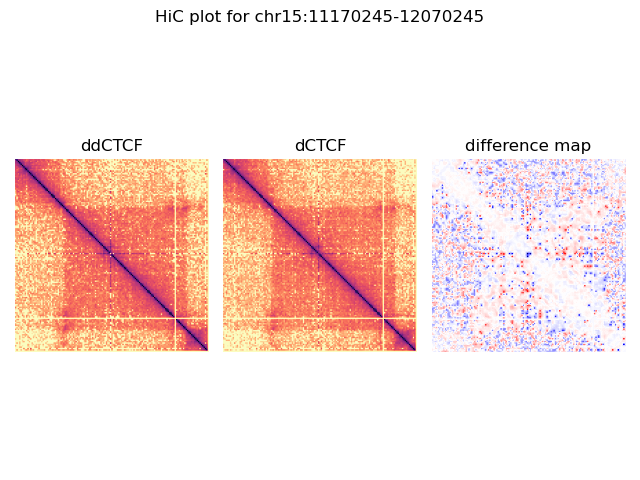
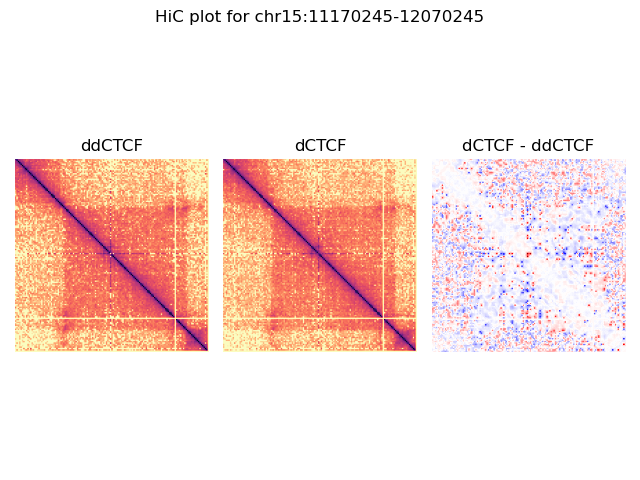
I think I completed assignment; not too sure about difference matrices, though

Changed region(s): [[0.6562, 0.2812, 1.0, 0.75]]

diff --git a/week6-homework/load_data.py b/week6-homework/load_data.py
@@ -5,7 +5,7 @@ import sys
 import numpy as np 
 import matplotlib.pyplot as plt
 import matplotlib.colors as colors
-from scipy import ndimage
+import matplotlib.transforms as mtransforms
 
 # analysis/hic_results/matrix/ddCTCF/iced/6400/ddCTCF_ontarget_6400_iced.matrix
 # analysis/hic_results/matrix/ddCTCF/iced/6400/dCTCF_ontarget_6400_iced.matrix
@@ -26,7 +26,7 @@ def get_bins(bin_fname, chrom, start, end):
 def process_data(fname, start, end):
     data = np.loadtxt(fname, dtype=np.dtype([
         ('F1', int), ('F2', int), ('score', float)]))
-    data = data[np.where((data['F1'] >= start) & (data['F2'] <= end))]
+    data = data[np.where((data['F1'] >= start) & (data['F2'] < end))]
     data['score'] = np.log(data['score']) 
     data['score'] = data['score'] - np.min(data['score'])
 
@@ -73,7 +73,6 @@ if __name__ == "__main__":
     start, end = get_bins(bin_fname, b'chr15', 11170245, 12070245)
 
     dim = end - start
-
     dd_data = process_data(dd_matrix, start, end)
     d_data = process_data(d_matrix, start, end)
 
@@ -86,7 +85,7 @@ if __name__ == "__main__":
 
     axs[0].imshow(-1*dd_mat, cmap='magma', vmin=-vmax, vmax=0)
     axs[1].imshow(-1*d_mat, cmap='magma', vmin=-vmax, vmax=0)
-    axs[2].imshow((remove_dd_bg(smooth_matrix(dd_mat))-remove_dd_bg(smooth_matrix(d_mat))), cmap='seismic', norm=colors.CenteredNorm())
+    axs[2].imshow((remove_dd_bg(smooth_matrix(d_mat))-remove_dd_bg(smooth_matrix(dd_mat))), cmap='seismic', norm=colors.CenteredNorm())
     
     axs[0].axis('off')
     axs[1].axis('off')
@@ -94,84 +93,80 @@ if __name__ == "__main__":
 
     axs[0].set_title('ddCTCF')
     axs[1].set_title('dCTCF')
-    axs[2].set_title('difference map')
+    axs[2].set_title('dCTCF - ddCTCF')
 
     plt.suptitle('HiC plot for chr15:11170245-12070245')
     plt.tight_layout()
     plt.savefig('hiC.png')
-    plt.show()
 
-    ### FULL DATA SETS ###
+    ### FULL DATA SETS ### Still looking at chr15:11170245-12070245
     dd_full = 'matrix/ddCTCF_full.6400.matrix'
     d_full = 'matrix/dCTCF_full.6400.matrix'
 
-    start, end = get_bins('matrix/6400_bins.bed', b'chr15', 10400000, 13400000)
-    # start = 54878
-    # end = 54951
+    start, end = get_bins('matrix/6400_bins.bed', b'chr15', 11170245, 12070245)
     dd_all = process_data(dd_full, start, end) 
     d_all = process_data(d_full, start, end) 
-
+    
     dim = end - start
-
-    dd_mat = populate_matrix(dd_all, dim)
+    
     d_mat = populate_matrix(d_all, dim)
-
+    dd_mat = populate_matrix(dd_all, dim)
+    
     fig, axs = plt.subplots(1,3)
 
     vmax = np.max([np.max(dd_mat), np.max(d_mat)])
 
     axs[0].imshow(-1*dd_mat, cmap='magma', vmin=-vmax, vmax=0)
     axs[1].imshow(-1*d_mat, cmap='magma', vmin=-vmax, vmax=0)
-    axs[2].imshow((remove_dd_bg(smooth_matrix(dd_mat))-remove_dd_bg(smooth_matrix(d_mat))), cmap='seismic', norm=colors.CenteredNorm())
+    axs[2].imshow((remove_dd_bg(smooth_matrix(d_mat))-remove_dd_bg(smooth_matrix(dd_mat))), cmap='seismic', norm=colors.CenteredNorm())
     axs[0].set_title('ddCTCF')
     axs[1].set_title('dCTCF')
-    axs[2].set_title('difference map')
+    axs[2].set_title('dCTCF - ddCTCF')
 
     axs[0].axis('off')
     axs[1].axis('off')
     axs[2].axis('off')
 
-    plt.suptitle('HiC plot for chr15:10400000-13400000')
+    plt.suptitle('HiC plot for full 6400 data set, chr15:11170245-12070245')
     plt.tight_layout()
     plt.savefig('hiC_full.png')
-    plt.show()
 
-    # Now insulation scores
-    dd_insul = []
+    ### INSULATION SCORES ###
+    # Now insulation scores for 10400000-13400000
+    d_full = 'matrix/dCTCF_full.40000.matrix'
+
+    # start, end = get_bins('matrix/40000_bins.bed', b'chr15', 10400000, 13400000)
+    # print(start,end) # Note, the end I find is 54954 which is not what the HW listed (54951)
+    start = 54878
+    end = 54951
+    d_all = process_data(d_full, start, end) 
+
+    dim = end - start
+
+    d_mat = populate_matrix(d_all, dim)
     d_insul = []
-    for i in range(dd_mat.shape[0]-10):
-        dd_insul.append(np.mean(dd_mat[(i - 5):(i+5), (i-5):(i + 5)]))
-    
-    for i in range(d_mat.shape[0]-10):
-        d_insul.append(np.mean(d_mat[(i - 5):(i+5), (i-5):(i + 5)]))
 
-    assert(np.sum(np.array(dd_insul) != np.array(d_insul)) > 0)
-    print(d_insul)
-    fig, ax = plt.subplots(2, 2, gridspec_kw={'height_ratios': [3, 1]}, figsize=(10,6.25))
-    ax[0,0].axis('off')
-    rot = ndimage.rotate(d_mat, 45)
-    ax[0,0].imshow(-1*rot[:int(len(rot)/2)], cmap='magma', vmin=-vmax, vmax=0)
-    ax[1,0].plot(np.arange(len(d_insul)), d_insul)
+    for i in range(d_mat.shape[0]):
+        d_insul.append(np.mean(d_mat[(i - 5):i, i:(i + 5)]))
+
+    fig, ax = plt.subplots(2, 1, gridspec_kw={'height_ratios': [3, 1]}, figsize=(5,6.25))
+    ax[0].axis('off')
+    im = ax[0].imshow(-1*d_mat, cmap='magma', vmin=-np.max(d_mat), vmax=0)
+
+    # Rotate so that diagonal is on the x axis
+    trans_data = mtransforms.Affine2D().rotate_deg(-45).translate(0,19) + ax[0].transData
+    im.set_transform(trans_data)
+    ax[0].set_xlim(-1, 103)
+    ax[0].set_ylim(19, 75)
+
+    ax[1].plot(np.arange(len(d_insul)), d_insul)
     plt.margins(x=0)
-    ax[1,0].set_xticks([0, len(d_insul)-1])
-    ax[1,0].set_xticklabels([10400000, 13400000])
+    ax[1].set_xticks([0, len(d_insul)-1])
+    ax[1].set_xticklabels([10400000, 13400000])
 
-    ax[0,1].axis('off')
-    rot = ndimage.rotate(dd_mat, 45)
-    ax[0,1].imshow(-1*rot[:int(len(rot)/2)], cmap='magma', vmin=-vmax, vmax=0)
-    ax[1,1].plot(np.arange(len(dd_insul)), dd_insul)
-    plt.margins(x=0)
-    ax[1,1].set_xticks([0, len(dd_insul)-1])
-    ax[1,1].set_xticklabels([10400000, 13400000])
+    ax[1].set_ylabel('Insulation score')
 
-    ax[0,0].set_title('dCTCF')
-    ax[0,1].set_title('ddCTCF')
-
-    ax[1,0].set_ylabel('Insulation score')
-    ax[1,1].set_ylabel('Insulation score')
-
-    ax[1,0].set_xlabel('Position')
-    ax[1,1].set_xlabel('Position')
+    ax[1].set_xlabel('Position')
 
     plt.subplots_adjust(left=0.15,
                     bottom=0.1,
@@ -179,10 +174,9 @@ if __name__ == "__main__":
                     top=1.0,
                     wspace=0.4,
                     hspace=0.0)
-    plt.tight_layout()
     plt.suptitle('HiC and insulation scores')
+    plt.tight_layout()
     plt.savefig('hic_insulation.png')
-    plt.show()
 
 
     
